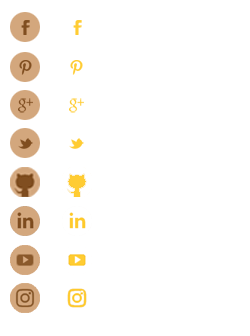
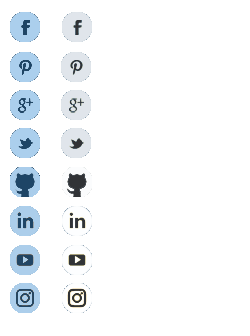
Updated color palette

diff --git a/css/style.css b/css/style.css
@@ -3,6 +3,7 @@ Author: W3layouts
 Author URL: http://w3layouts.com
 License: Creative Commons Attribution 3.0 Unported
 License URL: http://creativecommons.org/licenses/by/3.0/
+Color Wheel: 
 --*/
 
 html,
@@ -42,7 +43,7 @@ body a:hover {
 /*-- header --*/
 
 .header-nav {
-    background: #804e20;
+    background: #1E4566;
 }
 
 .navbar-default {
@@ -64,7 +65,7 @@ body a:hover {
 .navbar-default .navbar-nav > .active > a:hover,
 .navbar-default .navbar-nav > .active > a:focus {
     color: #fff;
-    background-color: #804E20;
+    background-color: #1E4566;
 }
 
 .navbar-nav > li > a {
@@ -74,7 +75,7 @@ body a:hover {
 }
 
 .navbar-default .navbar-nav > li > a {
-    color: #FADFC5;
+    color: #FAFAFA;
 }
 
 .navbar-default .navbar-nav > li > a:hover,
@@ -130,7 +131,7 @@ ul.nav li.act a:before {
     left: calc(50% - 10px);
     bottom: 0;
     border-width: 15px 12px 7px 13px;
-    border-color: #804e20 transparent transparent transparent;
+    border-color: #1E4566 transparent transparent transparent;
 }
 
 .hvr-bubble-bottom:hover:before,
@@ -147,7 +148,7 @@ ul.nav li.act a:before {
 /*-- header-bottom --*/
 
 .header-bottom {
-    background: #c6976b;
+    background: #1666A8;
     padding: 1.5em 0;
 }
 
@@ -176,7 +177,7 @@ ul.nav li.act a:before {
 }
 
 .header-bottom-right1 ul li a:hover {
-    color: #ffcc33;
+    color: #313336;
 }
 
 .header-bottom-right2 {
@@ -354,7 +355,7 @@ ul.nav li.act a:before {
 }
 
 .services {
-    background: #3aa079;
+    background: #1666A8;
 }
 
 .services h3,
@@ -433,7 +434,7 @@ p.vel {
 /* Effect 2 */
  .hovicon.effect-2 {
     color: #fff;
-	box-shadow:0 0 0 3px #518D76;
+	box-shadow:0 0 0 3px #1E4566;
     -webkit-transition: color 0.3s;
     -moz-transition: color 0.3s;
     transition: color 0.3s;
@@ -443,7 +444,7 @@ p.vel {
     left: -2px;
     padding: 2px;
     z-index: -1;
-    background:#518d76;
+    background:#1E4566;
     -webkit-transition: -webkit-transform 0.2s, opacity 0.2s;
     -moz-transition: -moz-transform 0.2s, opacity 0.2s;
     transition: transform 0.2s, opacity 0.2s;
@@ -478,7 +479,7 @@ p.vel {
 /*-- portfolio --*/
 
 .portfolio {
-    background: #ffcc33;
+    background: #313336;
 }
 
 
@@ -505,7 +506,7 @@ p.vel {
 }
 
 .resp-tab-item {
-    color: #3AA079;
+    color: #ABCFED;
     font-size: 0.9em;
     cursor: pointer;
     padding: 6px 25px;
@@ -527,7 +528,7 @@ p.vel {
 li.resp-tab-item:hover {
     text-shadow: none;
     color: #fff;
-    background: #3AA079;
+    background: #ABCFED;
 }
 
 .resp-tabs-container {
@@ -720,15 +721,15 @@ font-size: 29px;
 /*-- features --*/
 
 .features {
-    background: #C6976B;
+    background: #1666A8;
 }
 
 i.hovicon.effect-2.feat {
-    box-shadow: 0 0 0 3px #B78251;
+    box-shadow: 0 0 0 3px #1E4566;
 }
 
 .hovicon.effect-2.feat:after {
-    background: #B78251;
+    background: #1E4566;
 }
 
 
@@ -789,7 +790,7 @@ i.hovicon.effect-2.feat {
 
 .mail-sub input[type="submit"]:hover {
     color: #fff;
-    background: #c6976b;
+    background: #1666A8;
 }
 
 .map iframe {
@@ -821,7 +822,7 @@ i.hovicon.effect-2.feat {
 }
 
 .contact-left ul li a:hover {
-    color: #ffcc33;
+    color: #313336;
 }
 
 .contact-bottom {
@@ -852,7 +853,7 @@ i.hovicon.effect-2.feat {
 .contact-bottom input[type="reset"] {
     outline: none;
     border: none;
-    background: #ffcc33;
+    background: #313336;
     font-size: 1em;
     color: #fff;
     padding: 13px 0;
@@ -885,7 +886,7 @@ i.hovicon.effect-2.feat {
 
 .footer {
     padding: 1.5em 0;
-    background: #062f3c;
+    background: #1E4566;
 }
 
 .footer-left {
@@ -951,7 +952,7 @@ i.hovicon.effect-2.feat {
 h3.title,
 .about h3,
 .history h3 {
-    color: #804e20;
+    color: #1E4566;
 }
 
 p.iste {
@@ -1358,7 +1359,7 @@ p.para {
 
 .hello a {
     padding: 10px 30px;
-    background: #C6976B;
+    background: #1666A8;
     color: #fff;
     font-size: 14px;
     text-decoration: none;
@@ -1367,12 +1368,12 @@ p.para {
     -moz-transition: .5s all;
     -o-transition: .5s all;
     -ms-transition: .5s all;
-    box-shadow: 0px 2px 0px #804E20;
+    box-shadow: 0px 2px 0px #1E4566;
 }
 
 .hello a:hover {
     text-decoration: none;
-    color: #C6976B;
+    color: #1666A8;
     background: #fff;
 }
 
@@ -1471,7 +1472,7 @@ p.para {
     font-size: 21px;
     margin: 0;
     border-radius: 160px;
-    background: #ffcc33;
+    background: #313336;
     font-family: 'Oswald', sans-serif;
 }
 
@@ -1507,7 +1508,7 @@ p.para {
 
 .history-left-grid h4,
 .history-right h4 {
-    color: #C6976B;
+    color: #1666A8;
     letter-spacing: 1px;
     font-size: 1.3em;
     margin: 1em 0;
@@ -1555,7 +1556,7 @@ p.aut {
 
 .history-right ul li a:hover {
     text-decoration: none;
-    color: #FFCC33;
+    color: #313336;
 }
 
 .history-left h3,
@@ -1578,9 +1579,9 @@ p.aut {
 .blog-leftl {
     float: left;
     width: 18%;
-    background: #C6976B;
+    background: #1666A8;
     padding: 1em;
-    border-top: 4px solid #804E20;
+    border-top: 4px solid #1E4566;
 }
 
 .blog-leftl h4 {
@@ -1657,7 +1658,7 @@ p.aut {
 }
 
 .blog-leftr ul li a:hover {
-    color: #C6976B;
+    color: #1666A8;
     text-decoration: none;
 }
 
@@ -1677,7 +1678,7 @@ p.aut {
 .blog-right h3,
 .response h4,
 .coment-form h4 {
-    color: #C6976B;
+    color: #1666A8;
     margin: 0 0 1em;
     font-size: 1.5em;
     text-align: left;
@@ -1784,7 +1785,7 @@ p.aut {
     font-size: 14px;
     color: #fff;
     padding: 3px 9px 5px;
-    background: #C6976B;
+    background: #1666A8;
 }
 
 .footer-top-grid1 ul.tag3 li a:hover {
@@ -1902,7 +1903,7 @@ p.aut {
 
 .response-text-left h5 a {
     text-decoration: none;
-    color: #C6976B;
+    color: #1666A8;
 }
 
 .response-text-left h5 a:hover {
@@ -1930,7 +1931,7 @@ p.aut {
 
 .response-text-right ul li {
     display: inline-block;
-    color: #3aa079;
+    color: #ABCFED;
     font-size: 14px;
     margin-right: 1em;
 }
@@ -1941,7 +1942,7 @@ p.aut {
 }
 
 .response-text-right ul li a:hover {
-    color: #3aa079;
+    color: #ABCFED;
     text-decoration: none;
 }
 
@@ -1991,7 +1992,7 @@ p.aut {
 
 .coment-form input[type="submit"]:hover {
     color: #fff;
-    background: #804E20;
+    background: #1E4566;
     outline: none;
 }
 

diff --git a/css/chocolat.css b/css/chocolat.css
@@ -3,7 +3,7 @@ body{
 	padding:0;
 }
 #Choco_overlay{
-	background:#c6976b !important;
+	background:#FFFFFF !important;
 	position: fixed;
 	top: 0;
 	left: 0;
